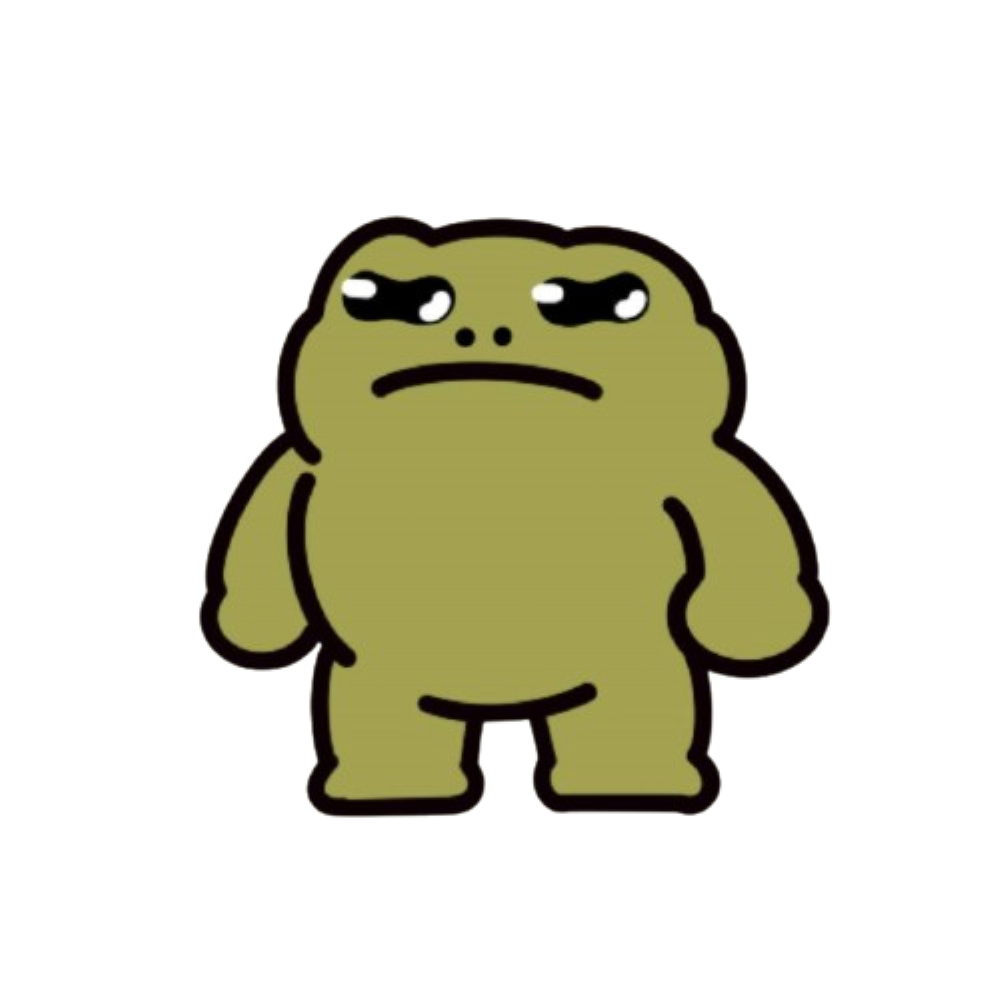
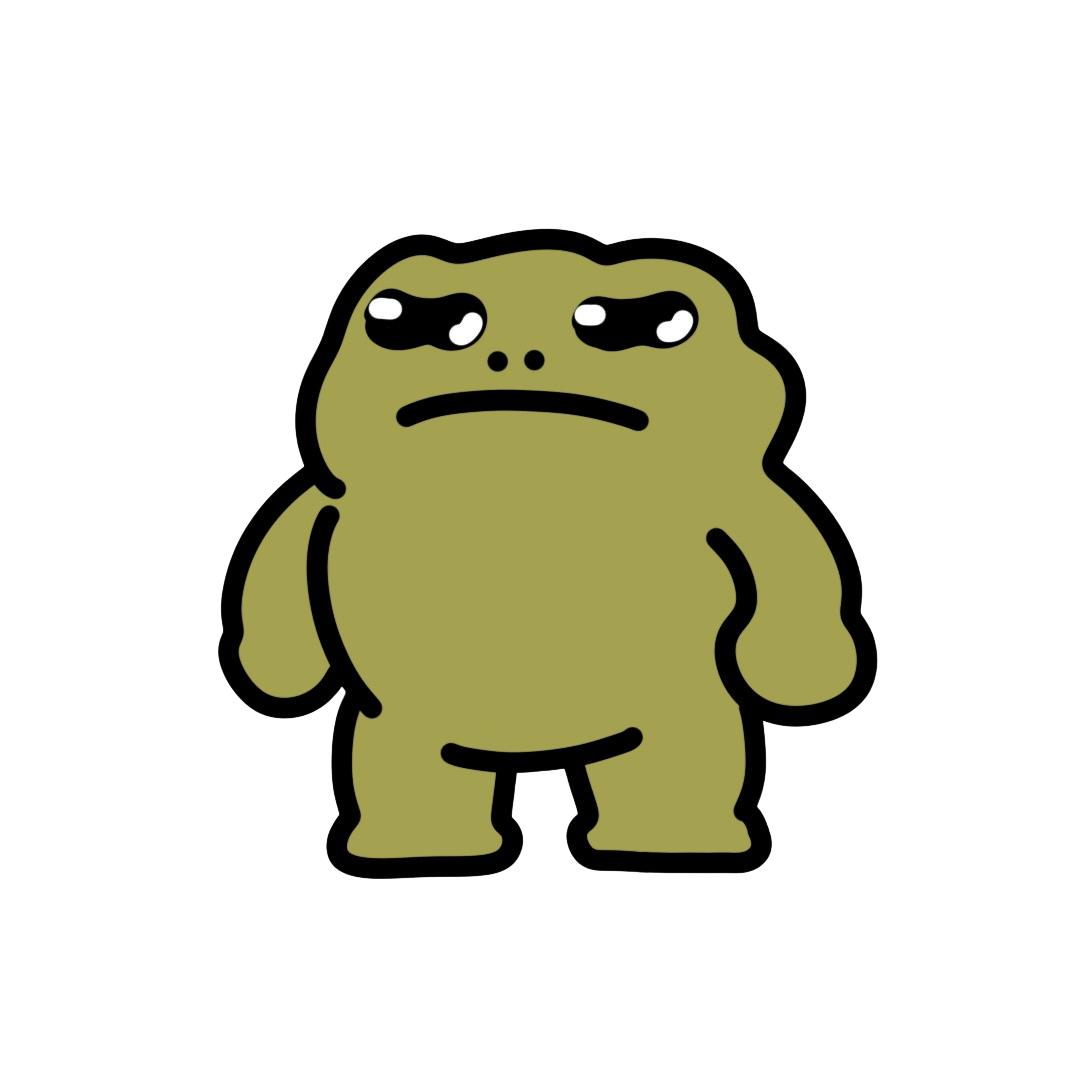
added more assets

Changed region(s): [[0.186, 0.186, 0.837, 0.837], [0.403, 0.682, 0.434, 0.713]]

diff --git a/mememaker-assets/scripts/script.js b/mememaker-assets/scripts/script.js
@@ -14,7 +14,7 @@ var current_bg = undefined;
 var current_bottom = undefined;
 var current_top = undefined;
 
-var selected_body = 0;
+var selected_body = 1;
 var selected_head = 0;
 var selected_eyes = 0;
 var selected_mouth = 0;
@@ -145,8 +145,20 @@ function selectParts(type, idx) {
     setSelectedIdx(type, idx);
 }
 
-AddParts(bodyList, 'body',0, 'mememaker-assets/img/icons/body/1.png', 'mememaker-assets/img/body/1.png', true);
-AddParts(bodyList, 'body',1, 'mememaker-assets/img/icons/body/2.png', 'mememaker-assets/img/body/2.png');
+AddParts(bodyList, 'body',1, 'mememaker-assets/img/icons/body/1.png', 'mememaker-assets/img/body/1.png', true);
+AddParts(bodyList, 'body',2, 'mememaker-assets/img/icons/body/2.png', 'mememaker-assets/img/body/2.png');
+AddParts(bodyList, 'body',3, 'mememaker-assets/img/icons/body/3.png', 'mememaker-assets/img/body/3.png');
+AddParts(bodyList, 'body',4, 'mememaker-assets/img/icons/body/4.png', 'mememaker-assets/img/body/4.png');
+AddParts(bodyList, 'body',5, 'mememaker-assets/img/icons/body/5.png', 'mememaker-assets/img/body/5.png');
+AddParts(bodyList, 'body',6, 'mememaker-assets/img/icons/body/6.png', 'mememaker-assets/img/body/6.png');
+AddParts(bodyList, 'body',7, 'mememaker-assets/img/icons/body/7.png', 'mememaker-assets/img/body/7.png');
+AddParts(bodyList, 'body',8, 'mememaker-assets/img/icons/body/8.png', 'mememaker-assets/img/body/8.png');
+AddParts(bodyList, 'body',9, 'mememaker-assets/img/icons/body/9.png', 'mememaker-assets/img/body/9.png');
+AddParts(bodyList, 'body',10, 'mememaker-assets/img/icons/body/10.png', 'mememaker-assets/img/body/10.png');
+AddParts(bodyList, 'body',11, 'mememaker-assets/img/icons/body/11.png', 'mememaker-assets/img/body/11.png');
+AddParts(bodyList, 'body',12, 'mememaker-assets/img/icons/body/12.png', 'mememaker-assets/img/body/12.png');
+AddParts(bodyList, 'body',13, 'mememaker-assets/img/icons/body/13.png', 'mememaker-assets/img/body/13.png');
+AddParts(bodyList, 'body',14, 'mememaker-assets/img/icons/body/14.png', 'mememaker-assets/img/body/14.png');
 
 AddParts(headList, 'head',0, 'mememaker-assets/img/none.png', undefined, true);
 AddParts(headList, 'head',1, 'mememaker-assets/img/icons/head/1.png', 'mememaker-assets/img/head/1.png');
@@ -160,15 +172,48 @@ AddParts(headList, 'head',8, 'mememaker-assets/img/icons/head/8.png', 'mememaker
 AddParts(headList, 'head',9, 'mememaker-assets/img/icons/head/9.png', 'mememaker-assets/img/head/9.png');
 AddParts(headList, 'head',10, 'mememaker-assets/img/icons/head/10.png', 'mememaker-assets/img/head/10.png');
 AddParts(headList, 'head',11, 'mememaker-assets/img/icons/head/11.png', 'mememaker-assets/img/head/11.png');
-// AddParts(headList, 'head',12, 'mememaker-assets/img/icons/head/12.png', 'mememaker-assets/img/head/12.png');
+AddParts(headList, 'head',13, 'mememaker-assets/img/icons/head/13.png', 'mememaker-assets/img/head/13.png');
+AddParts(headList, 'head',14, 'mememaker-assets/img/icons/head/14.png', 'mememaker-assets/img/head/14.png');
+AddParts(headList, 'head',15, 'mememaker-assets/img/icons/head/15.png', 'mememaker-assets/img/head/15.png');
+AddParts(headList, 'head',16, 'mememaker-assets/img/icons/head/16.png', 'mememaker-assets/img/head/16.png');
+AddParts(headList, 'head',17, 'mememaker-assets/img/icons/head/17.png', 'mememaker-assets/img/head/17.png');
+AddParts(headList, 'head',18, 'mememaker-assets/img/icons/head/18.png', 'mememaker-assets/img/head/18.png');
+AddParts(headList, 'head',19, 'mememaker-assets/img/icons/head/19.png', 'mememaker-assets/img/head/19.png');
+AddParts(headList, 'head',20, 'mememaker-assets/img/icons/head/20.png', 'mememaker-assets/img/head/20.png');
+AddParts(headList, 'head',21, 'mememaker-assets/img/icons/head/21.png', 'mememaker-assets/img/head/21.png');
+AddParts(headList, 'head',22, 'mememaker-assets/img/icons/head/22.png', 'mememaker-assets/img/head/22.png');
+AddParts(headList, 'head',23, 'mememaker-assets/img/icons/head/23.png', 'mememaker-assets/img/head/23.png');
+AddParts(headList, 'head',24, 'mememaker-assets/img/icons/head/24.png', 'mememaker-assets/img/head/24.png');
+AddParts(headList, 'head',25, 'mememaker-assets/img/icons/head/25.png', 'mememaker-assets/img/head/25.png');
+AddParts(headList, 'head',26, 'mememaker-assets/img/icons/head/26.png', 'mememaker-assets/img/head/26.png');
+AddParts(headList, 'head',27, 'mememaker-assets/img/icons/head/27.png', 'mememaker-assets/img/head/27.png');
+AddParts(headList, 'head',28, 'mememaker-assets/img/icons/head/28.png', 'mememaker-assets/img/head/28.png');
+AddParts(headList, 'head',29, 'mememaker-assets/img/icons/head/29.png', 'mememaker-assets/img/head/29.png');
+AddParts(headList, 'head',30, 'mememaker-assets/img/icons/head/30.png', 'mememaker-assets/img/head/30.png');
+// AddParts(headList, 'head',31, 'mememaker-assets/img/icons/head/31.png', 'mememaker-assets/img/head/31.png');
+// AddParts(headList, 'head',32, 'mememaker-assets/img/icons/head/32.png', 'mememaker-assets/img/head/32.png');
+// AddParts(headList, 'head',33, 'mememaker-assets/img/icons/head/33.png', 'mememaker-assets/img/head/33.png');
+// AddParts(headList, 'head',34, 'mememaker-assets/img/icons/head/34.png', 'mememaker-assets/img/head/34.png');
+// AddParts(headList, 'head',35, 'mememaker-assets/img/icons/head/35.png', 'mememaker-assets/img/head/35.png');
+// AddParts(headList, 'head',36, 'mememaker-assets/img/icons/head/36.png', 'mememaker-assets/img/head/36.png');
+// AddParts(headList, 'head',37, 'mememaker-assets/img/icons/head/37.png', 'mememaker-assets/img/head/37.png');
+// AddParts(headList, 'head',38, 'mememaker-assets/img/icons/head/38.png', 'mememaker-assets/img/head/38.png');
+// AddParts(headList, 'head',39, 'mememaker-assets/img/icons/head/39.png', 'mememaker-assets/img/head/39.png');
+// AddParts(headList, 'head',40, 'mememaker-assets/img/icons/head/40.png', 'mememaker-assets/img/head/40.png');
+// AddParts(headList, 'head',41, 'mememaker-assets/img/icons/head/41.png', 'mememaker-assets/img/head/41.png');
+// AddParts(headList, 'head',42, 'mememaker-assets/img/icons/head/42.png', 'mememaker-assets/img/head/42.png');
+// AddParts(headList, 'head',43, 'mememaker-assets/img/icons/head/43.png', 'mememaker-assets/img/head/43.png');
+// AddParts(headList, 'head',44, 'mememaker-assets/img/icons/head/44.png', 'mememaker-assets/img/head/44.png');
+// AddParts(headList, 'head',45, 'mememaker-assets/img/icons/head/45.png', 'mememaker-assets/img/head/45.png');
+
 
 AddParts(eyesList, 'eyes',0, 'mememaker-assets/img/none.png', undefined, true);
 AddParts(eyesList, 'eyes',1, 'mememaker-assets/img/icons/eyes/1.png', 'mememaker-assets/img/eyes/1.png');
 AddParts(eyesList, 'eyes',2, 'mememaker-assets/img/icons/eyes/2.png', 'mememaker-assets/img/eyes/2.png');
 AddParts(eyesList, 'eyes',3, 'mememaker-assets/img/icons/eyes/3.png', 'mememaker-assets/img/eyes/3.png');
 AddParts(eyesList, 'eyes',4, 'mememaker-assets/img/icons/eyes/4.png', 'mememaker-assets/img/eyes/4.png');
-// AddParts(eyesList, 'eyes',5, 'mememaker-assets/img/icons/eyes/5.png', 'mememaker-assets/img/eyes/5.png');
-// AddParts(eyesList, 'eyes',6, 'mememaker-assets/img/icons/eyes/6.png', 'mememaker-assets/img/eyes/6.png');
+AddParts(eyesList, 'eyes',5, 'mememaker-assets/img/icons/eyes/5.png', 'mememaker-assets/img/eyes/5.png');
+AddParts(eyesList, 'eyes',6, 'mememaker-assets/img/icons/eyes/6.png', 'mememaker-assets/img/eyes/6.png');
 // AddParts(eyesList, 'eyes',7, 'mememaker-assets/img/icons/eyes/7.png', 'mememaker-assets/img/eyes/7.png');
 // AddParts(eyesList, 'eyes',8, 'mememaker-assets/img/icons/eyes/8.png', 'mememaker-assets/img/eyes/8.png');
 
@@ -190,10 +235,22 @@ AddParts(topList, 'top',5, 'mememaker-assets/img/icons/top/5.png', 'mememaker-as
 AddParts(topList, 'top',6, 'mememaker-assets/img/icons/top/6.png', 'mememaker-assets/img/top/6.png');
 AddParts(topList, 'top',7, 'mememaker-assets/img/icons/top/7.png', 'mememaker-assets/img/top/7.png');
 AddParts(topList, 'top',8, 'mememaker-assets/img/icons/top/8.png', 'mememaker-assets/img/top/8.png');
-// AddParts(topList, 'top',9, 'mememaker-assets/img/icons/top/9.png', 'mememaker-assets/img/top/9.png');
-// AddParts(topList, 'top',10, 'mememaker-assets/img/icons/top/10.png', 'mememaker-assets/img/top/10.png');
-// AddParts(topList, 'top',11, 'mememaker-assets/img/icons/top/11.png', 'mememaker-assets/img/top/11.png');
-// AddParts(topList, 'top',12, 'mememaker-assets/img/icons/top/012.png', 'mememaker-assets/img/top/012.png');
+AddParts(topList, 'top',9, 'mememaker-assets/img/icons/top/9.png', 'mememaker-assets/img/top/9.png');
+AddParts(topList, 'top',10, 'mememaker-assets/img/icons/top/10.png', 'mememaker-assets/img/top/10.png');
+AddParts(topList, 'top',11, 'mememaker-assets/img/icons/top/11.png', 'mememaker-assets/img/top/11.png');
+AddParts(topList, 'top',12, 'mememaker-assets/img/icons/top/12.png', 'mememaker-assets/img/top/12.png');
+AddParts(topList, 'top',13, 'mememaker-assets/img/icons/top/13.png', 'mememaker-assets/img/top/13.png');
+AddParts(topList, 'top',14, 'mememaker-assets/img/icons/top/14.png', 'mememaker-assets/img/top/14.png');
+AddParts(topList, 'top',15, 'mememaker-assets/img/icons/top/15.png', 'mememaker-assets/img/top/15.png');
+AddParts(topList, 'top',16, 'mememaker-assets/img/icons/top/16.png', 'mememaker-assets/img/top/16.png');
+AddParts(topList, 'top',17, 'mememaker-assets/img/icons/top/17.png', 'mememaker-assets/img/top/17.png');
+AddParts(topList, 'top',18, 'mememaker-assets/img/icons/top/18.png', 'mememaker-assets/img/top/18.png');
+AddParts(topList, 'top',19, 'mememaker-assets/img/icons/top/19.png', 'mememaker-assets/img/top/19.png');
+AddParts(topList, 'top',20, 'mememaker-assets/img/icons/top/20.png', 'mememaker-assets/img/top/20.png');
+AddParts(topList, 'top',21, 'mememaker-assets/img/icons/top/21.png', 'mememaker-assets/img/top/21.png');
+AddParts(topList, 'top',22, 'mememaker-assets/img/icons/top/22.png', 'mememaker-assets/img/top/22.png');
+AddParts(topList, 'top',23, 'mememaker-assets/img/icons/top/23.png', 'mememaker-assets/img/top/23.png');
+
 
 AddParts(bottomList, 'bottom', 0, 'mememaker-assets/img/none.png', undefined, true);
 AddParts(bottomList, 'bottom', 1, 'mememaker-assets/img/icons/bottom/1.png', 'mememaker-assets/img/bottom/1.png');
@@ -204,9 +261,14 @@ AddParts(bottomList, 'bottom', 5, 'mememaker-assets/img/icons/bottom/5.png', 'me
 AddParts(bottomList, 'bottom', 6, 'mememaker-assets/img/icons/bottom/6.png', 'mememaker-assets/img/bottom/6.png');
 AddParts(bottomList, 'bottom', 7, 'mememaker-assets/img/icons/bottom/7.png', 'mememaker-assets/img/bottom/7.png');
 AddParts(bottomList, 'bottom', 8, 'mememaker-assets/img/icons/bottom/8.png', 'mememaker-assets/img/bottom/8.png');
-// AddParts(bottomList, 'bottom', 9, 'mememaker-assets/img/icons/bottom/009.png', 'mememaker-assets/img/bottom/009.png');
-// AddParts(bottomList, 'bottom', 10, 'mememaker-assets/img/icons/bottom/010.png', 'mememaker-assets/img/bottom/010.png');
-// AddParts(bottomList, 'bottom', 11, 'mememaker-assets/img/icons/bottom/11.png', 'mememaker-assets/img/bottom/11.png');
+AddParts(bottomList, 'bottom', 9, 'mememaker-assets/img/icons/bottom/9.png', 'mememaker-assets/img/bottom/9.png');
+AddParts(bottomList, 'bottom', 10, 'mememaker-assets/img/icons/bottom/10.png', 'mememaker-assets/img/bottom/10.png');
+AddParts(bottomList, 'bottom', 11, 'mememaker-assets/img/icons/bottom/11.png', 'mememaker-assets/img/bottom/11.png');
+AddParts(bottomList, 'bottom', 12, 'mememaker-assets/img/icons/bottom/12.png', 'mememaker-assets/img/bottom/12.png');
+AddParts(bottomList, 'bottom', 13, 'mememaker-assets/img/icons/bottom/13.png', 'mememaker-assets/img/bottom/13.png');
+AddParts(bottomList, 'bottom', 14, 'mememaker-assets/img/icons/bottom/14.png', 'mememaker-assets/img/bottom/14.png');
+AddParts(bottomList, 'bottom', 15, 'mememaker-assets/img/icons/bottom/15.png', 'mememaker-assets/img/bottom/15.png');
+AddParts(bottomList, 'bottom', 16, 'mememaker-assets/img/icons/bottom/16.png', 'mememaker-assets/img/bottom/16.png');
 
 AddParts(bgList, 'bg', 1, 'mememaker-assets/img/icons/background/1.png', 'mememaker-assets/img/background/1.png', true);
 // AddParts(bgList, 'bg', 2, 'mememaker-assets/img/icons/background/2.png', 'mememaker-assets/img/background/2.png');
@@ -271,19 +333,19 @@ resetBtn.onclick = () => {
     selectParts('bg', 1);
     selectParts('bottom', 0);
     selectParts('top', 0);
-    selectParts('body', 0);
+    selectParts('body', 1);
 }
 
 const randomBtn = document.getElementById('random-btn');
 
 randomBtn.onclick = () => {
-    const randHead = randRange(0, 12);
-    const randEyes = randRange(0, 5);
+    const randHead = randRange(0, 31);
+    const randEyes = randRange(0, 7);
     // const randMouth = randRange(0, 2);
      const randBg = randRange(0, 2);
     const randbottom = randRange(0, 9);
-    const randtop = randRange(0, 9);
-    const randbody = randRange(0, 2);
+    const randtop = randRange(0, 24);
+    const randbody = randRange(0, 15);
 
     selectParts('head', randHead);
     selectParts('eyes', randEyes);
